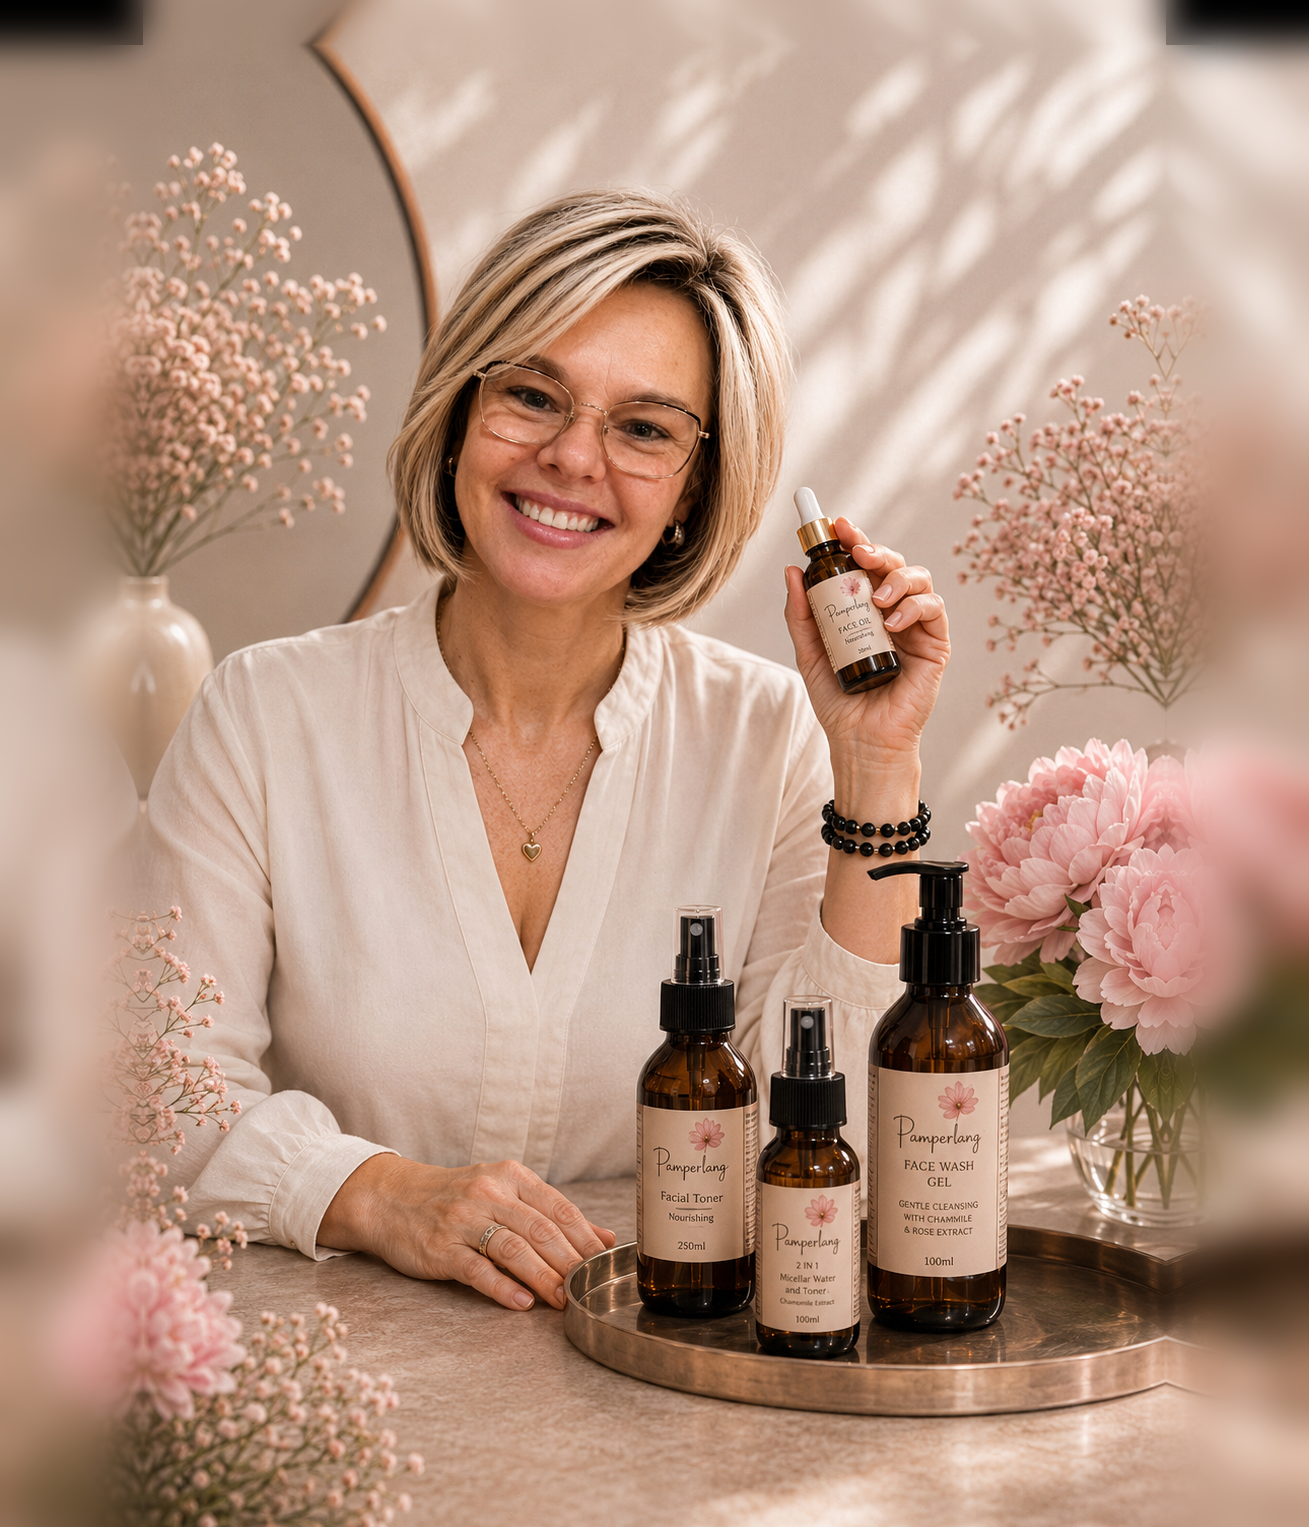
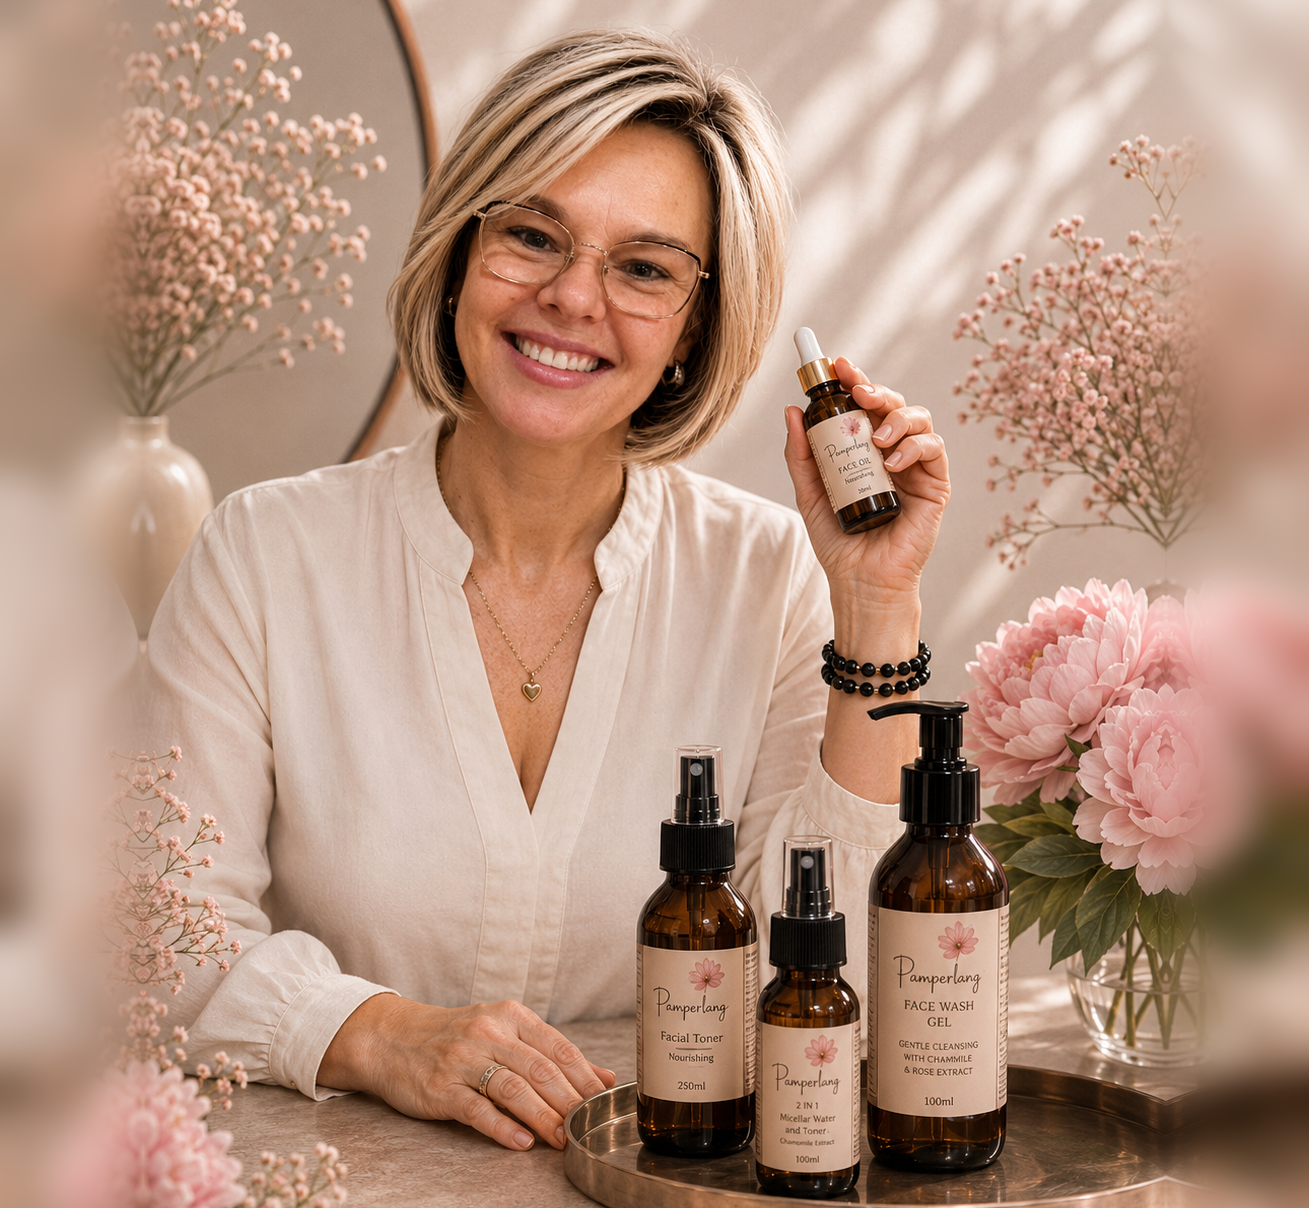
Match Riette/Marjorie's exact round frame shape (520x480), fit re-cropped photo into it

diff --git a/index.html b/index.html
@@ -309,9 +309,9 @@
     }
 
     .photo-frame {
-      width: 480px;
-      height: 560px;
-      border-radius: 50%;
+      width: 520px;
+      height: 480px;
+      border-radius: 260px;
       overflow: hidden;
       background: linear-gradient(135deg, var(--sand), var(--rose-light));
       box-shadow: 0 30px 80px rgba(139,58,88,0.2);
@@ -1427,7 +1427,7 @@
       .hero-photo-wrap { order: -1; }
       .photo-frame {
         width: 240px;
-        height: 280px;
+        height: 240px;
         border-radius: 50%;
         margin: 0 auto;
       }
